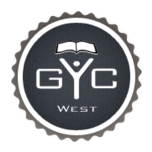
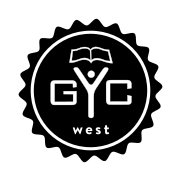
Rebuilding site Sun May 30 15:04:21 PDT 2021

diff --git a/index.html b/index.html
@@ -57,7 +57,7 @@
 	
 </nav>
 
-			<logo><a href="/"><img src="/img/logo.png" alt="GYC West logo"/></a><div><p id="year">2021</p><p id="date">AUG 4-8</p></div></logo>
+			<logo><a href="/"><img src="/img/logo_2021-01.svg" alt="GYC West logo" width="160px"/></a><div><p id="year">2021</p><p id="date">AUG 4-8</p></div></logo>
 		</header>
 		<style type="text/css">
 	#speakers {
@@ -79,6 +79,13 @@
 	
 	#speakers > article * {
 		cursor: default;
+	}
+
+	#speakers img {
+		background-image: url("/img/logo_2021-01.svg");
+		background-position: center;
+		background-repeat: no-repeat;
+		background-size: cover;
 	}
 
 	details[open] {
@@ -322,40 +329,36 @@
 		We believe nothing can limit our Lord's work when we follow His Word and we want to encourage you to trust Him alone.</p>
 	<p>Join us in 2021 to come away from your work and routines and seek revival together.</p>
 </section>
-<!--
 <section id="speakers">
 	<article>
-		<img src="/img/2020stevewohlberg.jpg" />
+		<img src="/img/2021stevewohlberg.jpg" />
 		<div>
 			<h1>Steve Wohlberg</h1>
 		</div>
 		<details>
-			<p>Steve Wohlberg is the Speaker/Director of <a href="https://www.whitehorsemedia.com"></a>White Horse Media</a> and the host of all <i>World News and the Bible</i> radio and television broadcasts. He is the author of 30+ books, including his newest sharing pocketbook, <i>Climate Change: Is it the End of the World?</i> His passion is to exalt his Savior, be a faithful husband and father, and to help prepare others for Jesus Christ’s soon return.</p>
+			<p>Steve Wohlberg is the Speaker/Director of <a href="https://www.whitehorsemedia.com">White Horse Media</a> and the host of all <i>World News and the Bible</i> radio and television broadcasts. He is the author of 40+ books, including his newest sharing pocketbook, <i>Approaching Armageddon</i> and <i>The Bloody Woman and the Seven-Headed Beast</i>. His passion is to exalt his Savior, be a faithful husband and father, and to help prepare others for Jesus Christ’s soon return.</p>
 		</details>
 	</article>
 	<article>
-		<img src="/img/2020scottritsema.jpg" />
+		<img src="/img/2021heididuffield.jpg" />
 		<div>
-			<h1>Scott Ritsema</h1>
+			<h1>Heidi Duffield</h1>
 		</div>
 		<details>
-			<p>Scott Ritsema is an educator, writer, and speaker with a passion for the present truth. In 2014 Scott left the teaching profession to answer God's call into full-time ministry. His seminars, <i>Media on the Brain</i> and <i>The Media Mind</i>, have been featured at GYC and ASI conventions - as well as on satellite TV and radio both inside and outside the church.</p>
-			<p>Scott is director and speaker for <i><a href="http://beltoftruthministries.com/">Belt of Truth Ministries</a></i>, based in Lakeview, Michigan.</p>
+			<p>Heidi Duffield is a student midwife from Waitsburg, WA. Her hobbies include painting, flower gardening, and songwriting. She also serves as President of <a href="https://www.gycnorthwest.org">GYC Northwest</a>. Her favorite Bible verse is Deuteronomy 33:27 - "The eternal God is your refuge, And underneath are the everlasting arms; He will thrust out the enemy from before you."</p>
 		</details>
 	</article>
 	<article>
-		<img src="/img/2020nathanjames.jpg" />
+		<img src="/img/2021ronduffield.jpg" />
 		<div>
-			<h1>Nathan James</h1>
-			< !-- <p>subject title</p> -- >
+			<h1>Ron Duffield</h1>
+			<!-- <p>subject title</p> -->
 		</div>
 		<details>
-			<p>Pastor Nathan James has a passion for both young people and the wilderness. When he earned his Religious Studies degree from Burman University, he majored in Adventure-based Youth Leadership. So, whether he’s dipping his paddle into a glacier-fed lake, or hiking through an alpine meadow, he sees God’s handiwork and wants to share that with others.</p>
-			<p>Pastor Nathan currently resides near Moab, Utah, with his wife, Charolet, and two intrepid children: Benjamin, and Talitha. He pastors the churches in Moab, Vernal, and Castle Valley, also getting actively involved with the outdoor adventures of Daystar Academy.</p>
+			<p>Ron Duffield is a Respiratory Therapist in the Walla Walla Valley and currently resides in Waitsburg/Dixie, Washington with his wife, Cherie, and three daughters Bethany, Heidi, and Emily. In the past he has worked at Weimar Institute as Men’s Hydro/Massage Director and College Librarian. Ron has written several books including “Return of the Latter Rain” and “Wounded in the House of His Friends”. His passion is Adventist History and the lessons we can learn from our past and putting that history down on paper so others can benefit from it as well. Ron and his family enjoy music (Duffield Family Music CDs in production), outdoor activities such as hiking and camping, gardening, and raising Bernese Mountain Dogs.</p>
 		</details>
 	</article>
 </section>
--->
 <section id="map" class="map">
 	<article>
 		<p>This <script type="text/javascript">if ((new Date()).getFullYear() < 2021) document.write("next ");</script>year's GYC West is being held at <a href="https://www.google.com/maps/place/Sierra+Pines+Camp/@38.8108136,-120.1068735,17z">Sierra Pines Camp</a>, up in the beautiful Sierra Nevadas just south of Lake Tahoe.</p>

diff --git a/404.html b/404.html
@@ -48,7 +48,7 @@
 	
 </nav>
 
-			<logo><img src="/img/logo.png" alt="GYC West logo"/><div><p id="year">2018</p><p id="date">JUNE 20-24</p></div></logo>
+			<logo><img src="/img/logo_2021-01.svg" alt="GYC West logo"/><div><p id="year">2018</p><p id="date">JUNE 20-24</p></div></logo>
 		</header>
 		<section>
 			<p>Please use the menu to find the page you are really looking for, or head to the <a href="/">home page to get the latest about GYC West!</a></p>

diff --git a/registration/index.html b/registration/index.html
@@ -59,7 +59,7 @@
 	
 </nav>
 
-			<logo><a href="/"><img src="/img/logo.png" alt="GYC West logo"/></a><div><p id="year">2021</p><p id="date">AUG 4-8</p></div></logo>
+			<logo><a href="/"><img src="/img/logo_2021-01.svg" alt="GYC West logo"/></a><div><p id="year">2021</p><p id="date">AUG 4-8</p></div></logo>
 		</header>
 		<script type="text/javascript">
 	window.location = "https://register.gycwest.com/";

diff --git a/registration/complete/index.html b/registration/complete/index.html
@@ -59,7 +59,7 @@
 	
 </nav>
 
-			<logo><a href="/"><img src="/img/logo.png" alt="GYC West logo"/></a><div><p id="year">2021</p><p id="date">AUG 4-8</p></div></logo>
+			<logo><a href="/"><img src="/img/logo_2021-01.svg" alt="GYC West logo"/></a><div><p id="year">2021</p><p id="date">AUG 4-8</p></div></logo>
 		</header>
 		<style type="text/css">
 	body > section:first-of-type::before {

diff --git a/registration/volunteer/index.html b/registration/volunteer/index.html
@@ -59,7 +59,7 @@
 	
 </nav>
 
-			<logo><a href="/"><img src="/img/logo.png" alt="GYC West logo"/></a><div><p id="year">2021</p><p id="date">AUG 4-8</p></div></logo>
+			<logo><a href="/"><img src="/img/logo_2021-01.svg" alt="GYC West logo"/></a><div><p id="year">2021</p><p id="date">AUG 4-8</p></div></logo>
 		</header>
 		<style type="text/css">
 	body > section:first-of-type::before {

diff --git a/about/index.html b/about/index.html
@@ -59,7 +59,7 @@
 	
 </nav>
 
-			<logo><a href="/"><img src="/img/logo.png" alt="GYC West logo"/></a><div><p id="year">2021</p><p id="date">AUG 4-8</p></div></logo>
+			<logo><a href="/"><img src="/img/logo_2021-01.svg" alt="GYC West logo"/></a><div><p id="year">2021</p><p id="date">AUG 4-8</p></div></logo>
 		</header>
 		<style type="text/css">
 	#inspiration_box {

diff --git a/donate/index.html b/donate/index.html
@@ -59,7 +59,7 @@
 	
 </nav>
 
-			<logo><a href="/"><img src="/img/logo.png" alt="GYC West logo"/></a><div><p id="year">2021</p><p id="date">AUG 4-8</p></div></logo>
+			<logo><a href="/"><img src="/img/logo_2021-01.svg" alt="GYC West logo"/></a><div><p id="year">2021</p><p id="date">AUG 4-8</p></div></logo>
 		</header>
 		<style type="text/css">
 	#inspiration_box {

diff --git a/2016/idcrisis/index.html b/2016/idcrisis/index.html
@@ -59,7 +59,7 @@
 	
 </nav>
 
-			<logo><a href="/"><img src="/img/logo.png" alt="GYC West logo"/></a><div><p id="year">2021</p><p id="date">AUG 4-8</p></div></logo>
+			<logo><a href="/"><img src="/img/logo_2021-01.svg" alt="GYC West logo"/></a><div><p id="year">2021</p><p id="date">AUG 4-8</p></div></logo>
 		</header>
 		<style type="text/css">
 	.written_by {

diff --git a/archives/index.html b/archives/index.html
@@ -59,7 +59,7 @@
 	
 </nav>
 
-			<logo><a href="/"><img src="/img/logo.png" alt="GYC West logo"/></a><div><p id="year">2021</p><p id="date">AUG 4-8</p></div></logo>
+			<logo><a href="/"><img src="/img/logo_2021-01.svg" alt="GYC West logo"/></a><div><p id="year">2021</p><p id="date">AUG 4-8</p></div></logo>
 		</header>
 		<style type="text/css">
 </style>

diff --git a/handouts/index.html b/handouts/index.html
@@ -59,7 +59,7 @@
 	
 </nav>
 
-			<logo><a href="/"><img src="/img/logo.png" alt="GYC West logo"/></a><div><p id="year">2021</p><p id="date">AUG 4-8</p></div></logo>
+			<logo><a href="/"><img src="/img/logo_2021-01.svg" alt="GYC West logo"/></a><div><p id="year">2021</p><p id="date">AUG 4-8</p></div></logo>
 		</header>
 		<style type="text/css">
 	

diff --git a/2016/index.html b/2016/index.html
@@ -59,7 +59,7 @@
 	
 </nav>
 
-			<logo><a href="/"><img src="/img/logo.png" alt="GYC West logo"/></a><div><p id="year">2021</p><p id="date">AUG 4-8</p></div></logo>
+			<logo><a href="/"><img src="/img/logo_2021-01.svg" alt="GYC West logo"/></a><div><p id="year">2021</p><p id="date">AUG 4-8</p></div></logo>
 		</header>
 		
 	</body>

diff --git a/categories/index.html b/categories/index.html
@@ -59,7 +59,7 @@
 	
 </nav>
 
-			<logo><a href="/"><img src="/img/logo.png" alt="GYC West logo"/></a><div><p id="year">2021</p><p id="date">AUG 4-8</p></div></logo>
+			<logo><a href="/"><img src="/img/logo_2021-01.svg" alt="GYC West logo"/></a><div><p id="year">2021</p><p id="date">AUG 4-8</p></div></logo>
 		</header>
 		
 	</body>
